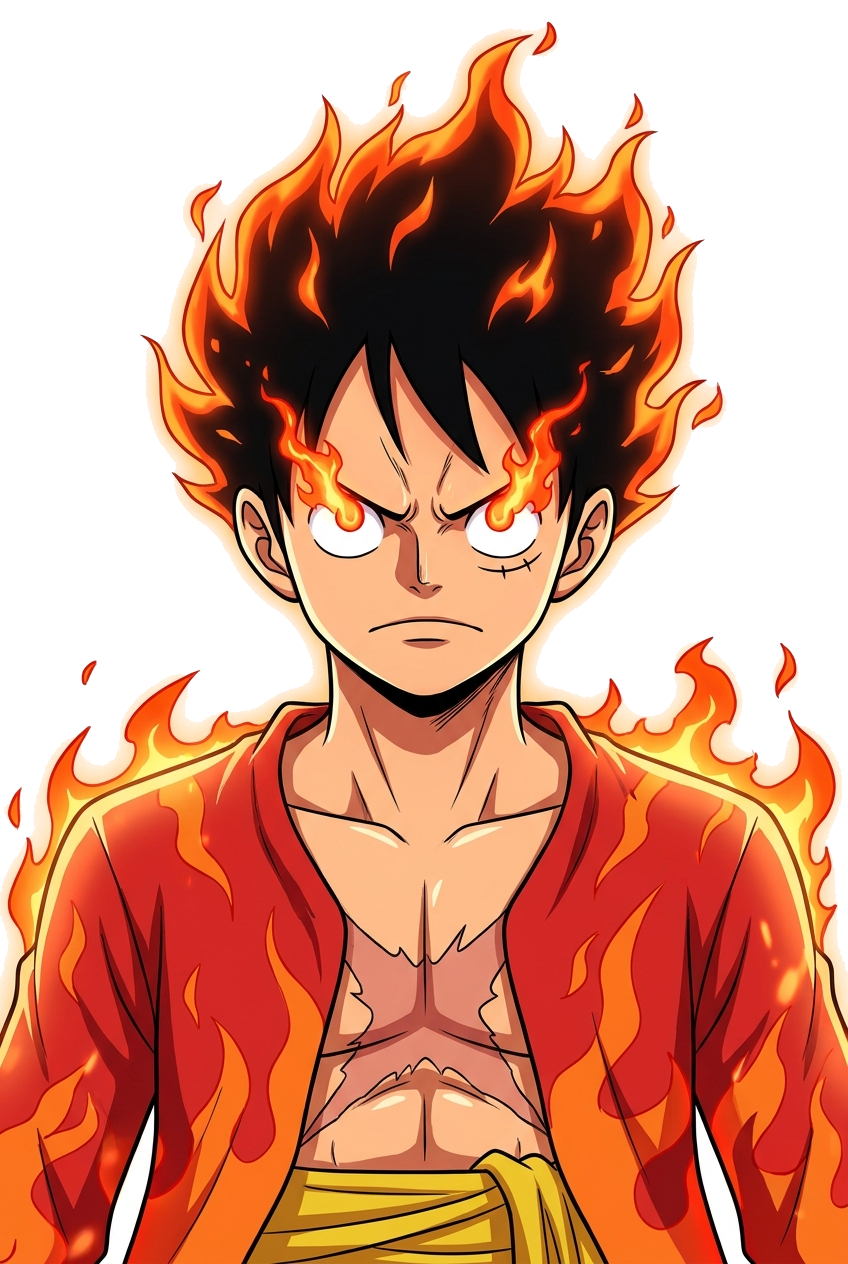
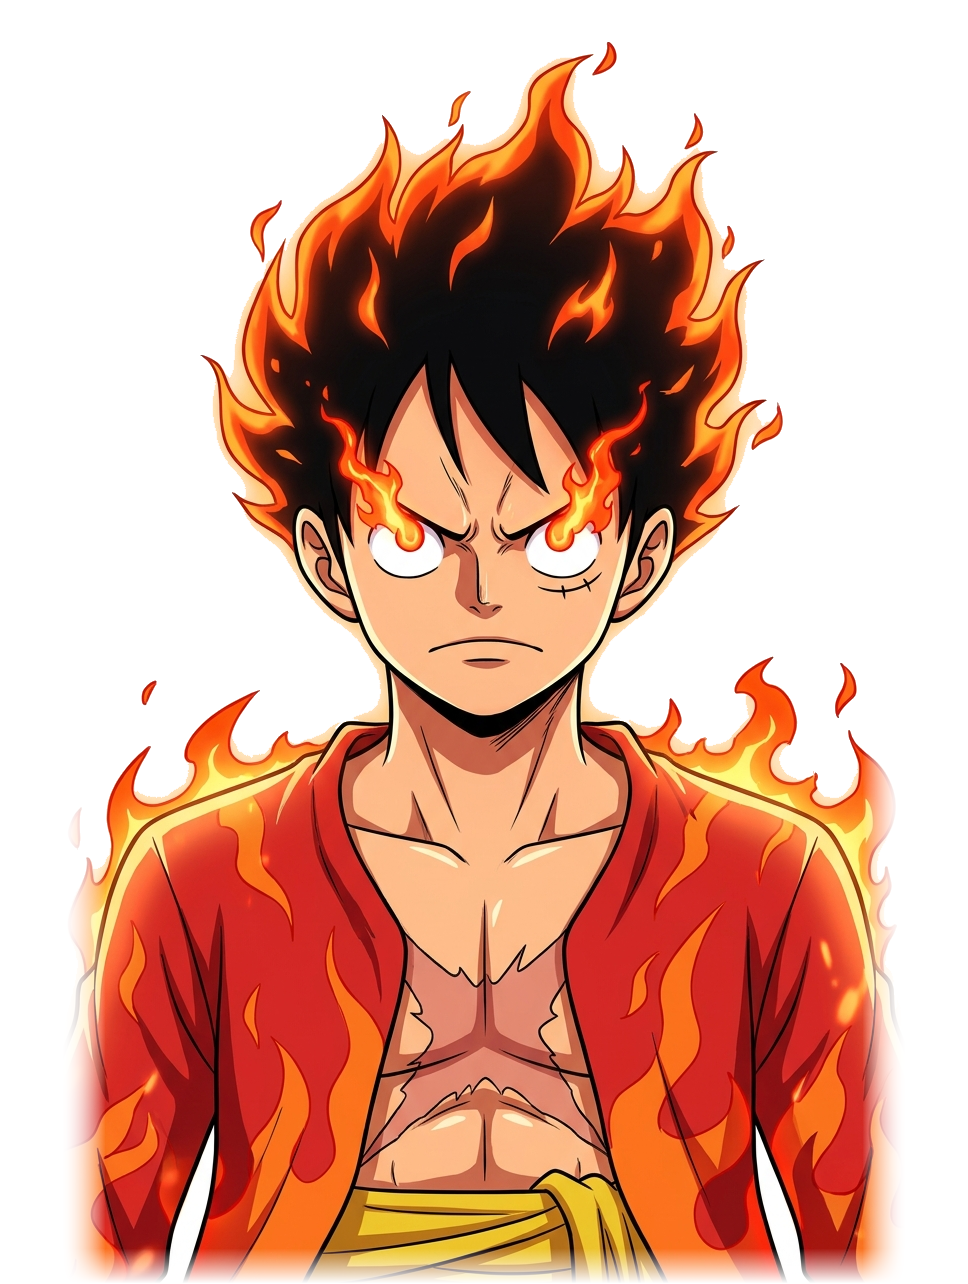
fix: eliminate rectangular background artifacts on Luffy and Febriansyah portrait

diff --git a/style.css b/style.css
@@ -409,44 +409,7 @@ body {
   white-space: nowrap;
 }
 
-/* Layer 2: Subject Cutout Image */
-.hero-portrait-wrap {
-  position: absolute;
-  bottom: 0;
-  left: 50%;
-  transform: translateX(-50%);
-  height: 86vh;
-  max-height: 860px;
-  z-index: 3;
-  display: flex;
-  align-items: flex-end;
-  justify-content: center;
-  pointer-events: none;
-  will-change: transform;
-}
-
-.hero-portrait-img {
-  height: 100%;
-  max-width: 90vw;
-  object-fit: contain;
-  object-position: bottom center;
-  filter: drop-shadow(0 20px 40px rgba(0, 0, 0, 0.85));
-  transition: transform 0.1s ease-out;
-}
-
-/* Soft Bottom Fade for seamless transition */
-.hero-portrait-fade {
-  position: absolute;
-  bottom: 0;
-  left: 0;
-  width: 100%;
-  height: 160px;
-  background: linear-gradient(to top, var(--bg-main) 10%, rgba(7, 7, 9, 0.6) 50%, transparent 100%);
-  pointer-events: none;
-  z-index: 4;
-}
-
-/* Dual Persona Luffy Fire Mode Overlay (Revealed Dynamically by Cursor Position) */
+/* Layer 2: Subject Cutout Image & Dual Persona Wrapper */
 .hero-portrait-wrap {
   position: absolute;
   bottom: 0;
@@ -461,6 +424,24 @@ body {
   pointer-events: auto; /* Enable cursor tracking directly on portrait */
   cursor: crosshair;
   will-change: transform;
+  /* Seamless bottom blend into background without box artifacts */
+  -webkit-mask-image: linear-gradient(to bottom, #000 82%, transparent 99%);
+  mask-image: linear-gradient(to bottom, #000 82%, transparent 99%);
+}
+
+.hero-portrait-img {
+  height: 100%;
+  max-width: 90vw;
+  object-fit: contain;
+  object-position: bottom center;
+  filter: drop-shadow(0 20px 40px rgba(0, 0, 0, 0.85));
+  transition: transform 0.1s ease-out;
+  pointer-events: none;
+}
+
+/* Neutralized fade div to prevent dark box artifacts */
+.hero-portrait-fade {
+  display: none !important;
 }
 
 /* Idle Hint Layer (Spider-Man / Luffy Alter Ego Periodic Flash) */

diff --git a/index.html b/index.html
@@ -160,7 +160,7 @@
           <!-- Persona 1: Muhammad Febriansyah (Real Person in Suit, 100% Clean Cutout) -->
           <img 
             id="heroPortraitImg" 
-            src="assets/images/febri_official_portrait.png?v=20261021_ultra_clean" 
+            src="assets/images/febri_official_portrait.png?v=20261021_nobox" 
             alt="Muhammad Febriansyah" 
             class="hero-portrait-img"
           >
@@ -168,7 +168,7 @@
           <!-- Periodic Hint Layer (Flashes softly when idle every ~4.5s just like reference!) -->
           <div class="hero-luffy-hint" id="heroLuffyHint">
             <img 
-              src="assets/images/luffy_matching_cutout.png?v=20261021_ultra_clean" 
+              src="assets/images/luffy_matching_cutout.png?v=20261021_nobox" 
               alt="Luffy Fire Mode Alter Ego Hint" 
               class="hero-portrait-img luffy-cutout-img"
             >
@@ -178,7 +178,7 @@
           <div class="hero-luffy-overlay" id="heroLuffyOverlay">
             <img 
               id="heroPortraitLuffy" 
-              src="assets/images/luffy_matching_cutout.png?v=20261021_ultra_clean" 
+              src="assets/images/luffy_matching_cutout.png?v=20261021_nobox" 
               alt="Monkey D. Luffy Fire Mode Pose-Matched Cutout" 
               class="hero-portrait-img luffy-cutout-img"
             >
@@ -186,8 +186,6 @@
 
           <!-- Cursor Follower Indicator Dot (mix-blend-mode difference / fiery glow) -->
           <div class="hero-cursor-follower-dot" id="heroCursorFollowerDot"></div>
-
-          <div class="hero-portrait-fade"></div>
 
           <!-- Interactive Dual Persona Cursor Guide Indicator -->
           <div class="dual-persona-badge" id="dualPersonaBadge">
